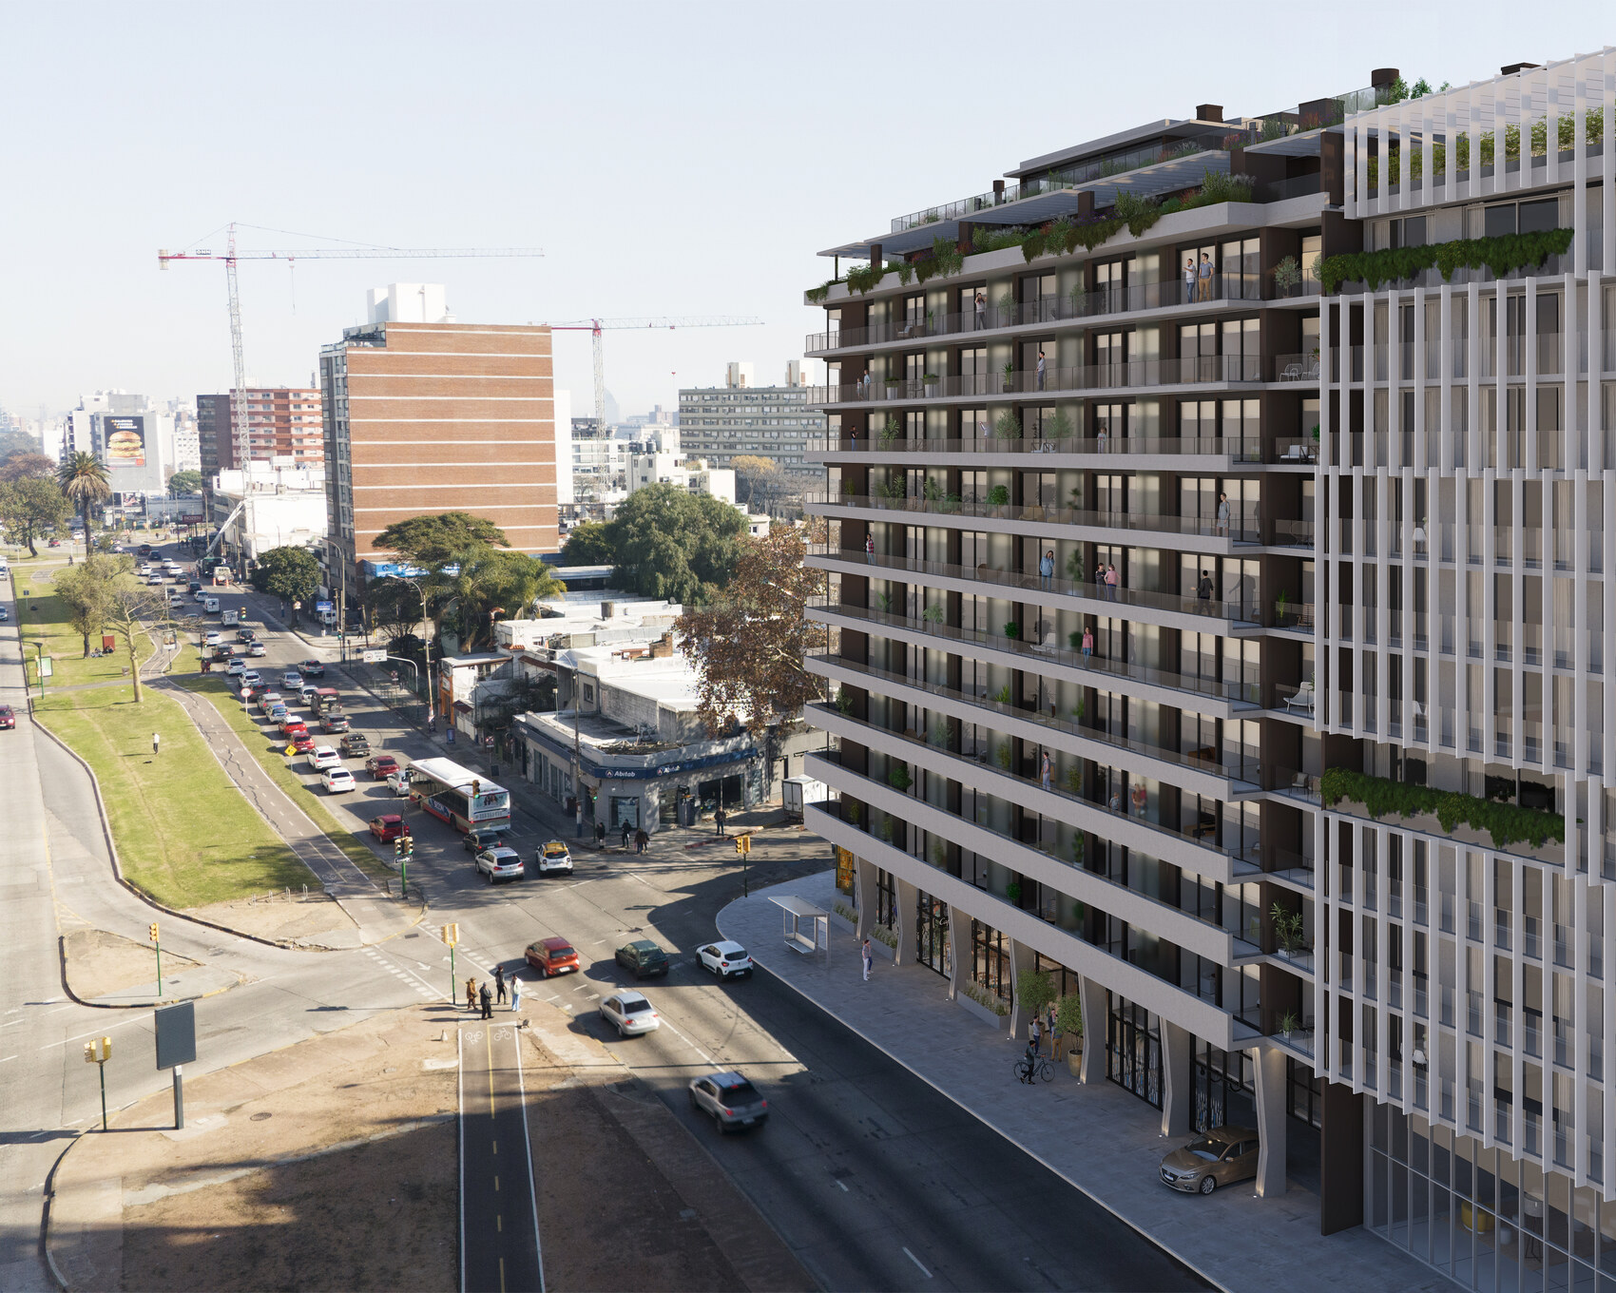
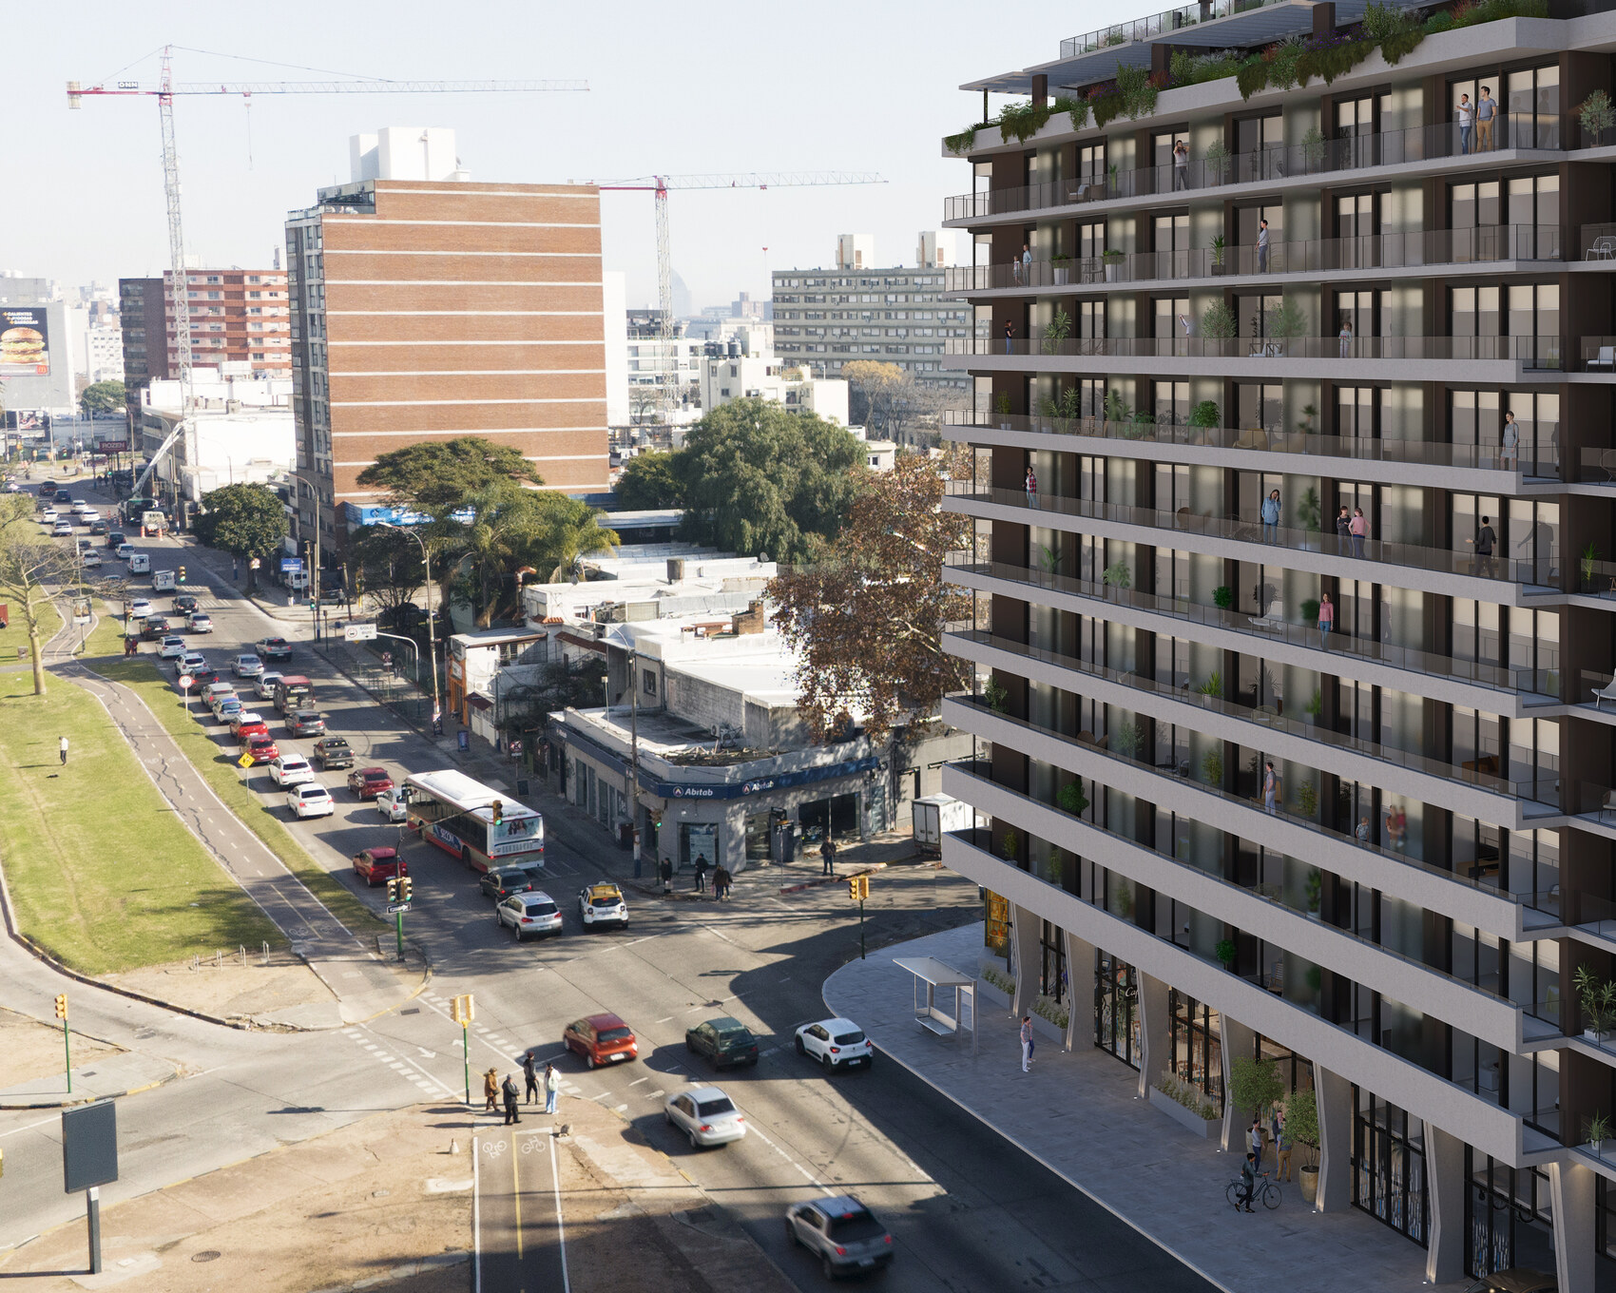
Commit

diff --git a/index.html b/index.html
@@ -357,8 +357,8 @@
                 </div>
               </div>
                 <div class="price-floor">
-                  <h4 class="price-floor__title">Piso 1</h4>
-                  <div class="price-table-wrap">
+                  <button class="price-floor__head" aria-expanded="false">Piso 1 <span class="price-floor__chev"></span></button>
+                  <div class="price-floor__body"><div class="price-floor__inner"><div class="price-table-wrap">
                     <table class="price-table">
                       <thead><tr><th>Unidad</th><th>Dorm.</th><th>Á. propia</th><th>Terraza</th><th>Á. común</th><th>Á. total</th><th>Precio lista</th><th>Pre-lanzamiento</th><th>Dto.</th></tr></thead>
                       <tbody>
@@ -371,11 +371,11 @@
                     <tr id="u-107"><td class="price-u"><button class="price-unit" data-plan="assets/docs/plantas-14.jpg" data-caption="Apartamento 107 · 1 dormitorio" data-price="u-107">107</button></td><td>1D</td><td>35,3</td><td>23,25</td><td>9,30</td><td>67,85</td><td>US$ 141.037</td><td class="price-pre">US$ 114.240</td><td>19%</td></tr>
                       </tbody>
                     </table>
-                  </div>
+                  </div></div></div>
                 </div>
                 <div class="price-floor">
-                  <h4 class="price-floor__title">Piso 2</h4>
-                  <div class="price-table-wrap">
+                  <button class="price-floor__head" aria-expanded="false">Piso 2 <span class="price-floor__chev"></span></button>
+                  <div class="price-floor__body"><div class="price-floor__inner"><div class="price-table-wrap">
                     <table class="price-table">
                       <thead><tr><th>Unidad</th><th>Dorm.</th><th>Á. propia</th><th>Terraza</th><th>Á. común</th><th>Á. total</th><th>Precio lista</th><th>Pre-lanzamiento</th><th>Dto.</th></tr></thead>
                       <tbody>
@@ -392,11 +392,11 @@
                     <tr id="u-211"><td class="price-u"><button class="price-unit" data-plan="assets/docs/plantas-25.jpg" data-caption="Apartamento 211 · 1 dormitorio" data-price="u-211">211</button></td><td>1D</td><td>35,3</td><td>2,45</td><td>5,95</td><td>43,70</td><td>US$ 134.296</td><td class="price-pre">US$ 108.780</td><td>19%</td></tr>
                       </tbody>
                     </table>
-                  </div>
+                  </div></div></div>
                 </div>
                 <div class="price-floor">
-                  <h4 class="price-floor__title">Piso 3</h4>
-                  <div class="price-table-wrap">
+                  <button class="price-floor__head" aria-expanded="false">Piso 3 <span class="price-floor__chev"></span></button>
+                  <div class="price-floor__body"><div class="price-floor__inner"><div class="price-table-wrap">
                     <table class="price-table">
                       <thead><tr><th>Unidad</th><th>Dorm.</th><th>Á. propia</th><th>Terraza</th><th>Á. común</th><th>Á. total</th><th>Precio lista</th><th>Pre-lanzamiento</th><th>Dto.</th></tr></thead>
                       <tbody>
@@ -413,11 +413,11 @@
                     <tr id="u-311"><td class="price-u"><button class="price-unit" data-plan="assets/docs/plantas-25.jpg" data-caption="Apartamento 311 · 1 dormitorio" data-price="u-311">311</button></td><td>1D</td><td>35,3</td><td>2,45</td><td>5,95</td><td>43,70</td><td>US$ 135.852</td><td class="price-pre">US$ 110.040</td><td>19%</td></tr>
                       </tbody>
                     </table>
-                  </div>
+                  </div></div></div>
                 </div>
                 <div class="price-floor">
-                  <h4 class="price-floor__title">Piso 4</h4>
-                  <div class="price-table-wrap">
+                  <button class="price-floor__head" aria-expanded="false">Piso 4 <span class="price-floor__chev"></span></button>
+                  <div class="price-floor__body"><div class="price-floor__inner"><div class="price-table-wrap">
                     <table class="price-table">
                       <thead><tr><th>Unidad</th><th>Dorm.</th><th>Á. propia</th><th>Terraza</th><th>Á. común</th><th>Á. total</th><th>Precio lista</th><th>Pre-lanzamiento</th><th>Dto.</th></tr></thead>
                       <tbody>
@@ -434,11 +434,11 @@
                     <tr id="u-411"><td class="price-u"><button class="price-unit" data-plan="assets/docs/plantas-25.jpg" data-caption="Apartamento 411 · 1 dormitorio" data-price="u-411">411</button></td><td>1D</td><td>35,3</td><td>2,45</td><td>5,95</td><td>43,70</td><td>US$ 137.407</td><td class="price-pre">US$ 111.300</td><td>19%</td></tr>
                       </tbody>
                     </table>
-                  </div>
+                  </div></div></div>
                 </div>
                 <div class="price-floor">
-                  <h4 class="price-floor__title">Piso 5</h4>
-                  <div class="price-table-wrap">
+                  <button class="price-floor__head" aria-expanded="false">Piso 5 <span class="price-floor__chev"></span></button>
+                  <div class="price-floor__body"><div class="price-floor__inner"><div class="price-table-wrap">
                     <table class="price-table">
                       <thead><tr><th>Unidad</th><th>Dorm.</th><th>Á. propia</th><th>Terraza</th><th>Á. común</th><th>Á. total</th><th>Precio lista</th><th>Pre-lanzamiento</th><th>Dto.</th></tr></thead>
                       <tbody>
@@ -455,11 +455,11 @@
                     <tr id="u-511"><td class="price-u"><button class="price-unit" data-plan="assets/docs/plantas-25.jpg" data-caption="Apartamento 511 · 1 dormitorio" data-price="u-511">511</button></td><td>1D</td><td>35,3</td><td>2,45</td><td>5,95</td><td>43,70</td><td>US$ 138.729</td><td class="price-pre">US$ 117.920</td><td>15%</td></tr>
                       </tbody>
                     </table>
-                  </div>
+                  </div></div></div>
                 </div>
                 <div class="price-floor">
-                  <h4 class="price-floor__title">Piso 6</h4>
-                  <div class="price-table-wrap">
+                  <button class="price-floor__head" aria-expanded="false">Piso 6 <span class="price-floor__chev"></span></button>
+                  <div class="price-floor__body"><div class="price-floor__inner"><div class="price-table-wrap">
                     <table class="price-table">
                       <thead><tr><th>Unidad</th><th>Dorm.</th><th>Á. propia</th><th>Terraza</th><th>Á. común</th><th>Á. total</th><th>Precio lista</th><th>Pre-lanzamiento</th><th>Dto.</th></tr></thead>
                       <tbody>
@@ -476,11 +476,11 @@
                     <tr id="u-611"><td class="price-u"><button class="price-unit" data-plan="assets/docs/plantas-25.jpg" data-caption="Apartamento 611 · 1 dormitorio" data-price="u-611">611</button></td><td>1D</td><td>35,3</td><td>2,45</td><td>5,95</td><td>43,70</td><td>US$ 140.282</td><td class="price-pre">US$ 119.240</td><td>15%</td></tr>
                       </tbody>
                     </table>
-                  </div>
+                  </div></div></div>
                 </div>
                 <div class="price-floor">
-                  <h4 class="price-floor__title">Piso 7</h4>
-                  <div class="price-table-wrap">
+                  <button class="price-floor__head" aria-expanded="false">Piso 7 <span class="price-floor__chev"></span></button>
+                  <div class="price-floor__body"><div class="price-floor__inner"><div class="price-table-wrap">
                     <table class="price-table">
                       <thead><tr><th>Unidad</th><th>Dorm.</th><th>Á. propia</th><th>Terraza</th><th>Á. común</th><th>Á. total</th><th>Precio lista</th><th>Pre-lanzamiento</th><th>Dto.</th></tr></thead>
                       <tbody>
@@ -497,11 +497,11 @@
                     <tr id="u-711"><td class="price-u"><button class="price-unit" data-plan="assets/docs/plantas-25.jpg" data-caption="Apartamento 711 · 1 dormitorio" data-price="u-711">711</button></td><td>1D</td><td>35,3</td><td>2,45</td><td>5,95</td><td>43,70</td><td>US$ 142.353</td><td class="price-pre">US$ 121.000</td><td>15%</td></tr>
                       </tbody>
                     </table>
-                  </div>
+                  </div></div></div>
                 </div>
                 <div class="price-floor">
-                  <h4 class="price-floor__title">Piso 8</h4>
-                  <div class="price-table-wrap">
+                  <button class="price-floor__head" aria-expanded="false">Piso 8 <span class="price-floor__chev"></span></button>
+                  <div class="price-floor__body"><div class="price-floor__inner"><div class="price-table-wrap">
                     <table class="price-table">
                       <thead><tr><th>Unidad</th><th>Dorm.</th><th>Á. propia</th><th>Terraza</th><th>Á. común</th><th>Á. total</th><th>Precio lista</th><th>Pre-lanzamiento</th><th>Dto.</th></tr></thead>
                       <tbody>
@@ -518,11 +518,11 @@
                     <tr id="u-811"><td class="price-u"><button class="price-unit" data-plan="assets/docs/plantas-25.jpg" data-caption="Apartamento 811 · 1 dormitorio" data-price="u-811">811</button></td><td>1D</td><td>35,3</td><td>2,45</td><td>5,95</td><td>43,70</td><td>US$ 143.906</td><td class="price-pre">US$ 122.320</td><td>15%</td></tr>
                       </tbody>
                     </table>
-                  </div>
+                  </div></div></div>
                 </div>
                 <div class="price-floor">
-                  <h4 class="price-floor__title">Piso 9</h4>
-                  <div class="price-table-wrap">
+                  <button class="price-floor__head" aria-expanded="false">Piso 9 <span class="price-floor__chev"></span></button>
+                  <div class="price-floor__body"><div class="price-floor__inner"><div class="price-table-wrap">
                     <table class="price-table">
                       <thead><tr><th>Unidad</th><th>Dorm.</th><th>Á. propia</th><th>Terraza</th><th>Á. común</th><th>Á. total</th><th>Precio lista</th><th>Pre-lanzamiento</th><th>Dto.</th></tr></thead>
                       <tbody>
@@ -539,11 +539,11 @@
                     <tr id="u-911"><td class="price-u"><button class="price-unit" data-plan="assets/docs/plantas-25.jpg" data-caption="Apartamento 911 · 1 dormitorio" data-price="u-911">911</button></td><td>1D</td><td>35,3</td><td>2,45</td><td>5,95</td><td>43,70</td><td>US$ 145.459</td><td class="price-pre">US$ 123.640</td><td>15%</td></tr>
                       </tbody>
                     </table>
-                  </div>
+                  </div></div></div>
                 </div>
                 <div class="price-floor">
-                  <h4 class="price-floor__title">Piso 10</h4>
-                  <div class="price-table-wrap">
+                  <button class="price-floor__head" aria-expanded="false">Piso 10 <span class="price-floor__chev"></span></button>
+                  <div class="price-floor__body"><div class="price-floor__inner"><div class="price-table-wrap">
                     <table class="price-table">
                       <thead><tr><th>Unidad</th><th>Dorm.</th><th>Á. propia</th><th>Terraza</th><th>Á. común</th><th>Á. total</th><th>Precio lista</th><th>Pre-lanzamiento</th><th>Dto.</th></tr></thead>
                       <tbody>
@@ -560,11 +560,11 @@
                     <tr id="u-1011"><td class="price-u"><button class="price-unit" data-plan="assets/docs/plantas-25.jpg" data-caption="Apartamento 1011 · 1 dormitorio" data-price="u-1011">1011</button></td><td>1D</td><td>35,3</td><td>2,45</td><td>5,95</td><td>43,70</td><td>US$ 147.529</td><td class="price-pre">US$ 125.400</td><td>15%</td></tr>
                       </tbody>
                     </table>
-                  </div>
+                  </div></div></div>
                 </div>
                 <div class="price-floor">
-                  <h4 class="price-floor__title">Piso 11</h4>
-                  <div class="price-table-wrap">
+                  <button class="price-floor__head" aria-expanded="false">Piso 11 <span class="price-floor__chev"></span></button>
+                  <div class="price-floor__body"><div class="price-floor__inner"><div class="price-table-wrap">
                     <table class="price-table">
                       <thead><tr><th>Unidad</th><th>Dorm.</th><th>Á. propia</th><th>Terraza</th><th>Á. común</th><th>Á. total</th><th>Precio lista</th><th>Pre-lanzamiento</th><th>Dto.</th></tr></thead>
                       <tbody>
@@ -581,11 +581,11 @@
                     <tr id="u-1111"><td class="price-u"><button class="price-unit" data-plan="assets/docs/plantas-25.jpg" data-caption="Apartamento 1111 · 1 dormitorio" data-price="u-1111">1111</button></td><td>1D</td><td>35,3</td><td>2,45</td><td>5,95</td><td>43,70</td><td>US$ 149.082</td><td class="price-pre">US$ 126.720</td><td>15%</td></tr>
                       </tbody>
                     </table>
-                  </div>
+                  </div></div></div>
                 </div>
                 <div class="price-floor">
-                  <h4 class="price-floor__title">Piso 12</h4>
-                  <div class="price-table-wrap">
+                  <button class="price-floor__head" aria-expanded="false">Piso 12 <span class="price-floor__chev"></span></button>
+                  <div class="price-floor__body"><div class="price-floor__inner"><div class="price-table-wrap">
                     <table class="price-table">
                       <thead><tr><th>Unidad</th><th>Dorm.</th><th>Á. propia</th><th>Terraza</th><th>Á. común</th><th>Á. total</th><th>Precio lista</th><th>Pre-lanzamiento</th><th>Dto.</th></tr></thead>
                       <tbody>
@@ -599,7 +599,7 @@
                     <tr id="u-1208"><td class="price-u"><button class="price-unit" data-plan="assets/docs/plantas-25.jpg" data-caption="Apartamento 1208 · 1 dormitorio" data-price="u-1208">1208</button></td><td>1D</td><td>35,3</td><td>2,45</td><td>5,79</td><td>43,54</td><td>US$ 150.635</td><td class="price-pre">US$ </td><td></td></tr>
                       </tbody>
                     </table>
-                  </div>
+                  </div></div></div>
                 </div>
               <a href="assets/docs/AVIT-Lista-de-Precios.pdf" target="_blank" rel="noopener" class="btn btn--solid accordion__download">Descargar lista de precios en PDF</a>
             </div>
@@ -644,7 +644,6 @@
     <button class="lightbox__close" id="lbClose" aria-label="Cerrar">&times;</button>
     <button class="lightbox__arrow lightbox__arrow--prev" id="lbPrev" aria-label="Anterior">&#8249;</button>
     <figure class="lightbox__figure">
-      <div class="lightbox__areas" id="lbAreas" hidden></div>
       <img src="" alt="" id="lbImg">
       <figcaption id="lbCaption"></figcaption>
       <div class="lightbox__info" id="lbInfo" hidden></div>

diff --git a/css/styles.css b/css/styles.css
@@ -547,17 +547,6 @@ button { font-family: var(--font); background: none; border: 0; cursor: pointer;
 }
 .lightbox.open .lightbox__figure img { transform: scale(1); }
 .lightbox__figure figcaption { color: var(--white); margin-top: 1rem; font-weight: 700; letter-spacing: .05em; }
-/* cabecera + medidas de la tipología (van arriba del plano, como en el ejemplo) */
-.lightbox__areas { max-width: min(680px, 88vw); margin: 0 auto 1.2rem; text-align: left; color: var(--white); }
-.lightbox__areas h3 { font-size: 1.3rem; font-weight: 800; margin: 0 0 .8rem; }
-.lightbox__areas h3 .lb-price-link--heading { color: var(--white); text-decoration: none; }
-.lightbox__areas h3 .lb-price-link--heading:hover { color: var(--mint); text-decoration: underline; }
-.lightbox__areas-grid { display: grid; grid-template-columns: repeat(4, 1fr); gap: .6rem; }
-.lightbox__areas-grid div { background: rgba(255,255,255,.08); border: 1px solid rgba(255,255,255,.18); border-radius: 10px; padding: .6rem .5rem; text-align: center; }
-.lightbox__areas-grid span { display: block; font-size: .68rem; text-transform: uppercase; letter-spacing: .06em; color: var(--mint); margin-bottom: .25rem; }
-.lightbox__areas-grid strong { display: block; font-size: 1rem; color: var(--white); font-weight: 700; }
-@media (max-width: 640px) { .lightbox__areas-grid { grid-template-columns: repeat(2, 1fr); } }
-.lightbox__figure:has(.lightbox__areas:not([hidden])) img { max-height: 60vh; }
 /* panel de info de pago (tipologías) */
 .lightbox__info {
   max-width: min(680px, 88vw);
@@ -900,15 +889,46 @@ button { font-family: var(--font); background: none; border: 0; cursor: pointer;
 .price-intro__grid p { font-size: .9rem; color: var(--ink-soft); margin: 0; }
 .price-intro__grid strong { color: var(--ink); }
 
-.price-floor { margin-top: 1.6rem; }
-.price-floor__title {
-  color: var(--teal);
-  font-size: .8rem;
-  font-weight: 800;
-  text-transform: uppercase;
-  letter-spacing: .18em;
-  margin-bottom: .5rem;
+/* Cada piso es un mini-desplegable: no se muestran todas las tablas juntas */
+.price-floor {
+  margin-top: 1rem;
+  border: 1px solid #e2f2ef;
+  border-radius: 10px;
+  overflow: hidden;
 }
+.price-floor__head {
+  width: 100%;
+  display: flex;
+  justify-content: space-between;
+  align-items: center;
+  gap: 1rem;
+  padding: .9rem 1.1rem;
+  font-size: .85rem;
+  font-weight: 800;
+  color: var(--teal);
+  text-transform: uppercase;
+  letter-spacing: .14em;
+  text-align: left;
+  transition: background .3s;
+}
+.price-floor__head:hover { background: #f6fbfa; }
+.price-floor__chev {
+  flex: 0 0 auto;
+  width: 8px; height: 8px;
+  border-right: 2px solid currentColor;
+  border-bottom: 2px solid currentColor;
+  transform: rotate(45deg);
+  transition: transform .4s var(--ease);
+}
+.price-floor.open .price-floor__chev { transform: rotate(225deg); }
+.price-floor__body {
+  display: grid;
+  grid-template-rows: 0fr;
+  transition: grid-template-rows .5s var(--ease);
+}
+.price-floor.open .price-floor__body { grid-template-rows: 1fr; }
+.price-floor__inner { min-height: 0; overflow: hidden; }
+.price-floor .price-table-wrap { border: 0; border-top: 1px solid #e2f2ef; border-radius: 0; }
 .price-table-wrap { overflow-x: auto; border-radius: 10px; border: 1px solid #e2f2ef; }
 .price-table {
   width: 100%;

diff --git a/js/main.js b/js/main.js
@@ -131,13 +131,21 @@
     });
   });
 
+  /* ---------- Lista de precios: un desplegable por piso ---------- */
+  document.querySelectorAll(".price-floor__head").forEach((head) => {
+    head.addEventListener("click", () => {
+      const floor = head.parentElement;
+      const open = floor.classList.toggle("open");
+      head.setAttribute("aria-expanded", open);
+    });
+  });
+
   /* ==========================================================
      LIGHTBOX generico (galeria, amenities y documentos)
      ========================================================== */
   const lightbox = document.getElementById("lightbox");
   const lbImg = document.getElementById("lbImg");
   const lbCaption = document.getElementById("lbCaption");
-  const lbAreas = document.getElementById("lbAreas");
   const lbArrows = [document.getElementById("lbPrev"), document.getElementById("lbNext")];
   const lbInfo = document.getElementById("lbInfo");
   const PAGO_INFO =
@@ -154,31 +162,11 @@
     lbImg.src = item.src;
     lbImg.alt = item.caption || "";
 
-    // Cabecera + medidas (arriba del plano, como en el ejemplo de planta vertical)
-    if (item.priceId && lbAreas) {
-      const row = document.getElementById(item.priceId);
+    if (item.priceId) {
       const parts = (item.caption || "").split(" · ");
       const aptLabel = parts[0] || "";
-      let html = '<h3><a class="lb-price-link lb-price-link--heading" href="#' + item.priceId + '">Precio - ' + aptLabel + "</a></h3>";
-      if (row) {
-        const cells = row.querySelectorAll("td");
-        const propia = cells[2] ? cells[2].textContent.trim() : "";
-        const terraza = cells[3] ? cells[3].textContent.trim() : "";
-        const comun = cells[4] ? cells[4].textContent.trim() : "";
-        const total = cells[5] ? cells[5].textContent.trim() : "";
-        html +=
-          '<div class="lightbox__areas-grid">' +
-          "<div><span>Habitable</span><strong>" + propia + " m²</strong></div>" +
-          "<div><span>Terraza</span><strong>" + terraza + " m²</strong></div>" +
-          "<div><span>Común</span><strong>" + comun + " m²</strong></div>" +
-          "<div><span>Total</span><strong>" + total + " m²</strong></div>" +
-          "</div>";
-      }
-      lbAreas.innerHTML = html;
-      lbAreas.hidden = false;
-      lbCaption.textContent = "";
+      lbCaption.innerHTML = '<a class="lb-price-link" href="#' + item.priceId + '">Precio - ' + aptLabel + "</a>";
     } else {
-      if (lbAreas) { lbAreas.innerHTML = ""; lbAreas.hidden = true; }
       lbCaption.textContent = item.caption || "";
     }
 
@@ -242,6 +230,12 @@
       acc.classList.add("open");
       const h = acc.querySelector(".accordion__head");
       if (h) h.setAttribute("aria-expanded", "true");
+    }
+    const floor = row.closest(".price-floor");
+    if (floor && !floor.classList.contains("open")) {
+      floor.classList.add("open");
+      const fh = floor.querySelector(".price-floor__head");
+      if (fh) fh.setAttribute("aria-expanded", "true");
     }
     setTimeout(() => {
       row.scrollIntoView({ behavior: "smooth", block: "center" });
